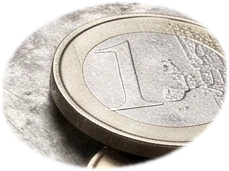
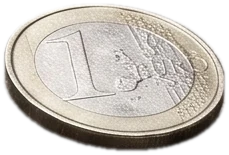
Mesa: recortes de dados y monedas más limpios; monedas completas al desparramarse
Claude-Session: https://claude.ai/code/session_01PvjRtLARtD9QrEZ5Rz5NK5

diff --git a/index.html b/index.html
@@ -39,7 +39,7 @@
           <div class="fx-h fx-h--budL" style="left:1728.8px;top:312.8px;width:107.2px;height:139.2px"><img src="assets/img/fx/h-budL.webp" alt="" draggable="false"></div>
           <div class="fx-h fx-h--budR" style="left:2264.8px;top:416.8px;width:127.2px;height:139.2px"><img src="assets/img/fx/h-budR.webp" alt="" draggable="false"></div>
         </div>
-        <div class="fx" id="mesaFx" data-meta='{"cR1": [1976, 762, 229, 171, 3], "cL1": [181, 1296, 269, 209, 3], "cL2": [420, 1406, 275, 233, 3], "cL3": [0, 1290, 161, 205, 3], "cR2": [2056, 903, 219, 133, 2], "cR3": [2252, 877, 148, 185, 2], "cR4": [2185, 1027, 215, 187, 2], "cL4": [0, 1456, 207, 190, 2], "cL6": [0, 1633, 253, 159, 2], "cL7": [316, 1643, 259, 149, 2], "cRs": [2243, 647, 157, 248, 1], "cL5": [182, 1493, 267, 211, 1], "d1": [652, 253, 153, 195, 5], "d2": [487, 453, 210, 214, 5], "d3": [772, 423, 197, 220, 5], "d4": [856, 1237, 239, 267, 5], "d5": [666, 1422, 265, 297, 5]}'></div>
+        <div class="fx" id="mesaFx" data-meta='{"d1": [649, 256, 152, 195, 5], "d2": [486, 455, 216, 215, 5], "d3": [771, 425, 200, 215, 5], "d4": [858, 1236, 235, 271, 5], "d5": [664, 1423, 268, 282, 5], "cR1": [2024, 772, 229, 155, 3], "cL1": [185, 1301, 260, 208, 3], "cL2": [420, 1403, 268, 224, 3], "cL3": [-41, 1289, 199, 205, 3], "cR2": [2050, 895, 230, 147, 2], "cR3": [2246, 876, 203, 185, 2], "cR4": [2176, 1011, 267, 211, 2], "cL4": [-28, 1448, 232, 197, 2], "cL6": [-11, 1632, 262, 214, 2], "cL7": [314, 1642, 262, 214, 2], "cRs": [2241, 660, 159, 230, 1], "cL5": [171, 1478, 288, 238, 1]}'></div>
       </div>
     </div>
   </div>
@@ -69,6 +69,6 @@
 <script src="https://w.soundcloud.com/player/api.js"></script>
 <script src="player.js"></script>
 <script src="oracle.js?v=3"></script>
-<script src="main.js?v=17"></script>
+<script src="main.js?v=19"></script>
 </body>
 </html>

diff --git a/main.js b/main.js
@@ -238,7 +238,7 @@
       var m = meta[k], b = document.createElement('button');
       b.type = 'button'; b.className = 'fx-o'; b.setAttribute('aria-label', k.charAt(0) === 'd' ? 'Dado' : 'Moneda');
       b.style.left = m[0] + 'px'; b.style.top = m[1] + 'px'; b.style.width = m[2] + 'px'; b.style.height = m[3] + 'px'; b.style.zIndex = m[4];
-      b.innerHTML = '<img src="assets/img/fx/' + k + '.webp" alt="" draggable="false">';
+      b.innerHTML = '<img src="assets/img/fx/' + k + '.webp?v=3" alt="" draggable="false">';
       b._k = k; b._x = 0; b._y = 0; b._r = 0;
       box.appendChild(b); els[k] = b;
       if (k.charAt(0) === 'd') dice.push(b); else groups[k.slice(0, 2)].push(b);
@@ -265,7 +265,7 @@
       setTimeout(function () {
         var cur = b.querySelector('img').getAttribute('src'), pick;
         do { pick = faces[Math.floor(Math.random() * faces.length)]; } while (cur.indexOf(pick + '.webp') > -1);
-        b.querySelector('img').setAttribute('src', 'assets/img/fx/' + pick + '.webp');
+        b.querySelector('img').setAttribute('src', 'assets/img/fx/' + pick + '.webp?v=3');
       }, 420);
       a.onfinish = function () { b._x = x1; b._y = y1; b._r = r1 % 360; b.style.transform = tr(b._x, b._y, b._r, 1); a.cancel(); b.classList.remove('is-hop'); b._busy = false; };
     }

diff --git a/dj.html b/dj.html
@@ -142,6 +142,6 @@
 <script src="https://w.soundcloud.com/player/api.js"></script>
 <script src="player.js"></script>
 <script src="oracle.js?v=3"></script>
-<script src="main.js?v=17"></script>
+<script src="main.js?v=19"></script>
 </body>
 </html>

diff --git a/ia.html b/ia.html
@@ -402,6 +402,6 @@
 <script src="https://w.soundcloud.com/player/api.js"></script>
 <script src="player.js"></script>
 <script src="oracle.js?v=3"></script>
-<script src="main.js?v=17"></script>
+<script src="main.js?v=19"></script>
 </body>
 </html>

diff --git a/oraculo.html b/oraculo.html
@@ -48,6 +48,6 @@
 <script src="https://w.soundcloud.com/player/api.js"></script>
 <script src="player.js"></script>
 <script src="oracle.js?v=3"></script>
-<script src="main.js?v=17"></script>
+<script src="main.js?v=19"></script>
 </body>
 </html>
